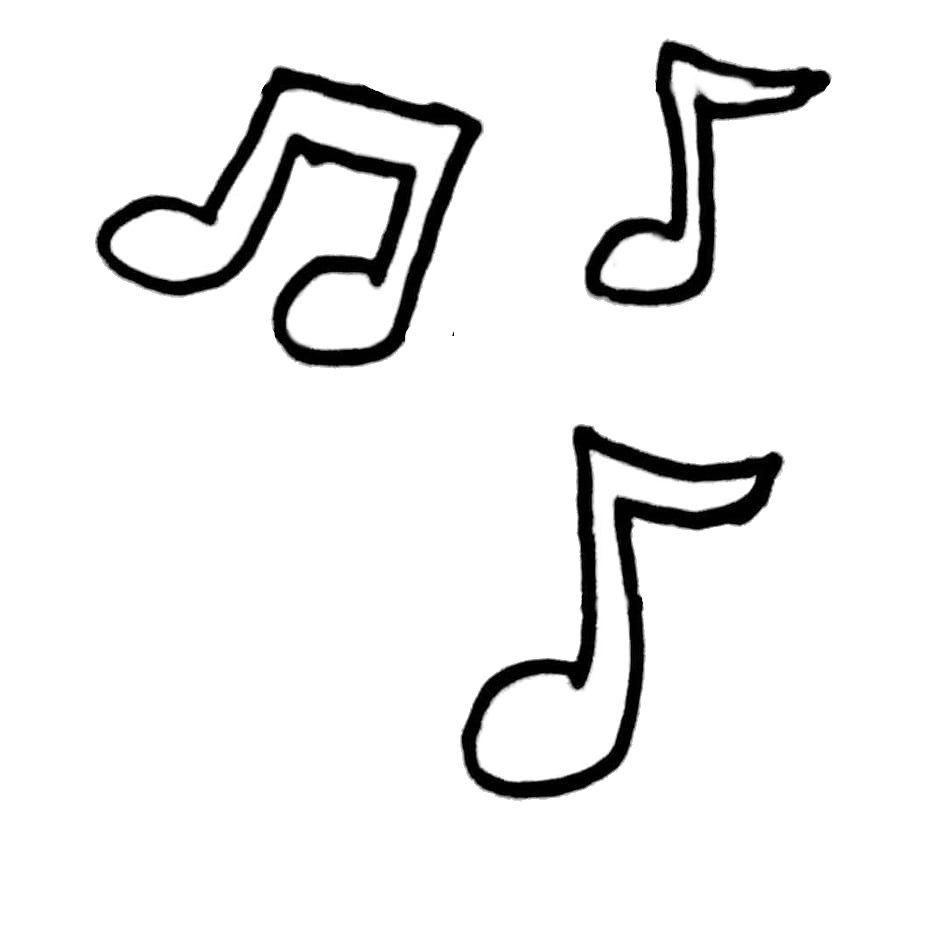
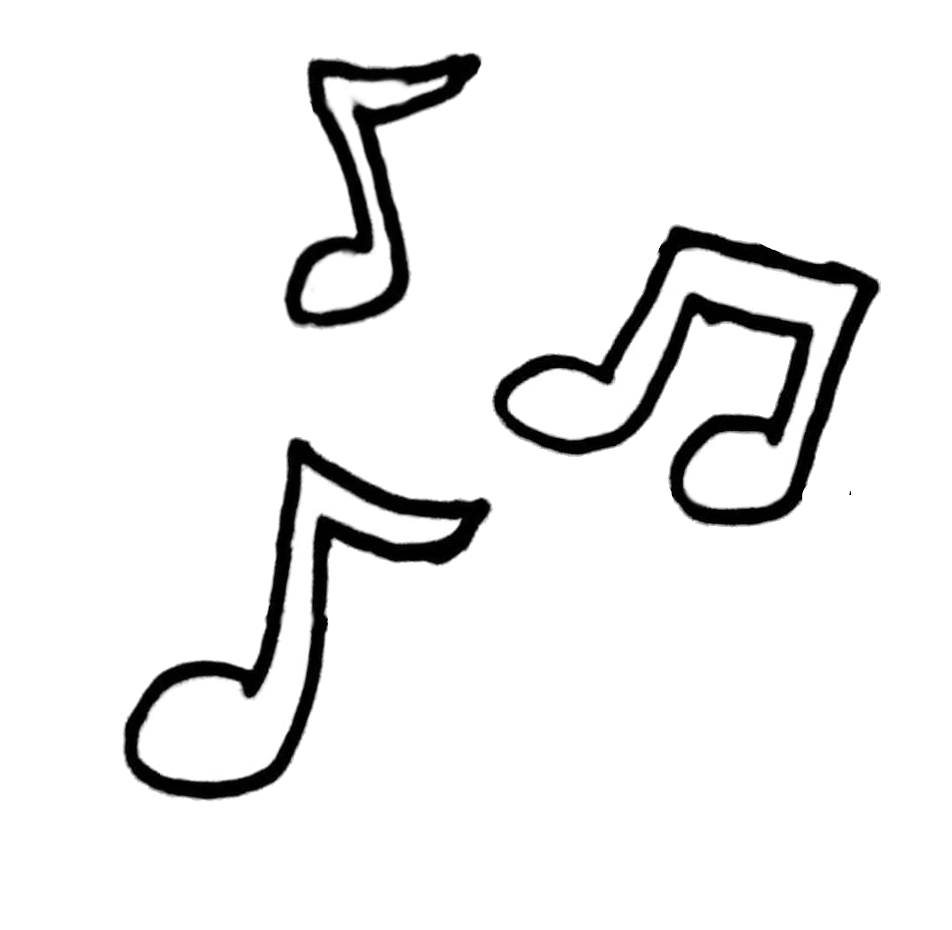
WIP music page, spotify button

Changed region(s): [[0.4569, 0.0312, 0.9443, 0.8731], [0.0914, 0.0624, 0.5179, 0.4054], [0.1218, 0.4677, 0.5179, 0.8731]]

diff --git a/src/pages/me.js b/src/pages/me.js
@@ -2,11 +2,16 @@ import OffsetText from "../components/offsetText";
 import RESUME from '../RESUME.pdf';
 import resume from '../images/resume.png';
 import resume_hover from '../images/resume_hover.png';
+import notes from '../images/notes.png';
+import notes_hover from '../images/notes_hover.png';
+import check_out_my_music from '../images/check_out_my_music.png'
 import { useState } from "react";
+import { Link } from "react-router-dom";
 
 const Me = (props) => {
 
-    const [hover, setHover] = useState(false);
+    const [resumeHover, setResumeHover] = useState(false);
+    const [notesHover, setNotesHover] = useState(false);
 
     const aboutMe = [
         "I'm a Mechatronics Engineering student at the University of Waterloo. I'm a software engineer and musician who loves combining the two to create tools that enhance the music making process for musicians like myself.",
@@ -25,10 +30,15 @@ const Me = (props) => {
                 <div class="me-hero">
                     <div class="me-hero-image slide-in" style={{animationDuration: '0.5s'}}/>
                     <div class="me-hero-stars slide-in" style={{animationDuration: '0.8s'}}/>
-                    <div class="me-hero-text slide-in" style={{animationDuration: '1.5s'}}>
+                    <div class="me-hero-text slide-in" style={{animationDuration: '1s'}}>
                         <h1>Hi!</h1>
                         <h1>I'm Stephen</h1>
                     </div>
+                    <Link to="/music" style={{alignSelf: 'flex-end', marginTop: '50px'}}>
+                        <img class="slide-in" src={notesHover ? notes_hover : notes} onMouseEnter={() => setNotesHover(true)} onMouseLeave={() => setNotesHover(false)} 
+                            style={{maxWidth: '124px', alignSelf: 'flex-end', marginLeft: '-870px', marginBottom: '200px', animationDuration: '0.7s'}}/>
+                    </Link>
+                    <img class="slide-in" src={check_out_my_music} style={{maxWidth: '170px', alignSelf: 'flex-end', marginLeft: '-980px', paddingBottom: '300px', animationDuration: '0.5s'}}/>
                 </div>
 
                 <div class="me-about slide-in" style={{animationDuration: '0.5s'}}>
@@ -36,17 +46,10 @@ const Me = (props) => {
                     <OffsetText text={aboutMe} offsets={['-10px','30px']}/>
                 </div>
 
-                <div class="slide-in" style={{animationDuration: '0.5s', justifySelf: 'center'}}>
-                    <a href={RESUME} target='_blank' without rel='noopener noreferrer' onMouseEnter={() => setHover(true)} onMouseLeave={() => setHover(false)}>
-                        <img style={{maxWidth: '9em'}} src={hover ? resume_hover : resume}></img>
+                <div class="slide-in" style={{animationDuration: '0.6s', justifySelf: 'center'}}>
+                    <a href={RESUME} target='_blank' without rel='noopener noreferrer' onMouseEnter={() => setResumeHover(true)} onMouseLeave={() => setResumeHover(false)}>
+                        <img style={{maxWidth: '9em'}} src={resumeHover ? resume_hover : resume}></img>
                     </a>
-                </div>
-            </div>
-
-            <div class="me-music" id="music">
-                <div class="me-about slide-in" style={{animationDuration: '0.5s'}}>
-                    <h2>Music</h2>
-                    <OffsetText text={musicText} offsets={['20px', '-20px', '0px']}/>
                 </div>
             </div>
         </>

diff --git a/src/App.css b/src/App.css
@@ -14,7 +14,6 @@
 /* ANIMATIONS */
 .slide-in {
   animation-timing-function: ease-out; /* how the animation will behave */
-  animation-delay: 0s; /* how long to delay the animation from starting */
   animation-iteration-count: 1; /* how many times the animation will play */
   animation-name: slideIn; /* the name of the animation we defined above */
 }
@@ -59,16 +58,6 @@ html {
   background-color: #F5F5F5;
 }
 
-.loading {
-  position: absolute;
-  top: 50%;
-  left: 50%;
-  -ms-transform: translate(-50%, -50%);
-  transform: translate(-50%, -50%);
-
-  max-height: 50%;
-}
-
 .header {
   height: 100vh;
   background-color:#61dafb;
@@ -95,6 +84,8 @@ html {
   display: grid;
   grid-gap: 2em;
   gap: 2em;
+
+  /* background-color: red; */
 }
 
 .me-music {
@@ -107,9 +98,8 @@ html {
 
 .me-hero {
   display: grid;
-  grid-template-columns: min-content auto auto;
+  grid-template-columns: min-content auto auto auto auto;
   justify-content: center;
-
 
   font-family: Libertinus, serif;
   font-style: italic;
@@ -155,4 +145,10 @@ html {
   font-size: large;
   line-height: 25px;
   max-width: 800px;
+}
+
+.music {
+  display: grid;
+  justify-content: center;
+  gap: 2em;
 }

diff --git a/src/components/spotifyFollow.js b/src/components/spotifyFollow.js
@@ -1,0 +1,9 @@
+const SpotifyFollow = () => {
+    return (
+        <div>
+            <iframe src="https://open.spotify.com/follow/1/?uri=spotify:artist:45ZahRHfLVk21frmSFtiqj&size=detail&theme=light" width="300" height="56" scrolling="no" frameborder="0" class="slide-in" style={{border:'none', overflow:'hidden', animationDuration: '0.5s'}} allowtransparency="true"></iframe>
+        </div>
+    )
+}
+
+export default SpotifyFollow;

diff --git a/src/App.js b/src/App.js
@@ -1,11 +1,13 @@
 import './App.css';
 import Me from "./pages/me";
 import { HashRouter, Route } from "react-router-dom";
+import Music from './pages/music';
 
 function App() {
   return (
       <HashRouter basename='/'>
         <Route exact path="/" component={Me}/>
+        <Route exact path="/music" component={Music}/>
       </HashRouter>
   );
 }

diff --git a/src/components/loading.js b/src/components/loading.js
@@ -1,9 +1,11 @@
-import loading from "../../src/loading.gif"
+import WIP from "../images/WIP.png"
 
 const Loading = (props) => {
 
     return (
-        <img src={loading} class="loading" alt="loading..."/>
+        <div>
+            <img src={WIP} class="slide-in" style={{animationDuration: '0.5s'}} alt="loading..."/>
+        </div>
     )
 }
 

diff --git a/src/pages/music.js b/src/pages/music.js
@@ -1,0 +1,13 @@
+import Loading from "../components/loading";
+import SpotifyFollow from "../components/spotifyFollow";
+
+const Music = (props) => {
+    return (
+        <div class="music">
+            <Loading/>
+            <SpotifyFollow />
+        </div>
+    )
+}
+
+export default Music;
